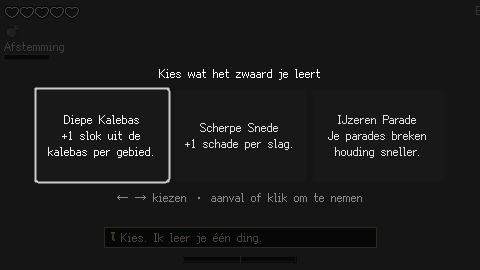
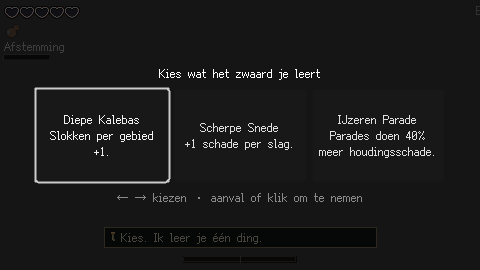
M4: upgrade descriptions read their numbers from run.tres
Descriptions use placeholders ({health}, {posture}, {pct}, {damage}, {sips}) filled from the
tuning file, so F1 changes show in the upgrade screen (en, nl, zh_CN). Checked in settings.

Claude-Session: https://claude.ai/code/session_01AfcAftnrJ5ZevfZvVojacj

Changed region(s): [[0.6562, 0.4741, 0.9062, 0.5926], [0.0938, 0.4741, 0.3125, 0.5926]]

diff --git a/game/scripts/Ui/UpgradeScreen.cs b/game/scripts/Ui/UpgradeScreen.cs
@@ -33,6 +33,19 @@ public partial class UpgradeScreen : CanvasLayer
         _ => "merciful_cut",
     };
 
+    /// <summary>Fills an upgrade's description with its numbers from run.tres, so F1 edits show.</summary>
+    public static string Describe(Upgrade u, string template)
+    {
+        var r = Core.Tunables.Run;
+        static string Pct(float factor) => Mathf.RoundToInt((factor - 1f) * 100f).ToString();
+        return template
+            .Replace("{health}", (u == Upgrade.MercifulCut ? r.MercifulCutHeal : r.VitalityHealth).ToString())
+            .Replace("{posture}", Mathf.RoundToInt(r.BroadStancePosture).ToString())
+            .Replace("{pct}", Pct(u == Upgrade.SteadyBreath ? r.SteadyBreathFactor : r.IronDeflectFactor))
+            .Replace("{damage}", r.KeenEdgeDamage.ToString())
+            .Replace("{sips}", r.DeepGourdSips.ToString());
+    }
+
     public override void _Ready()
     {
         Layer = 20;
@@ -57,7 +70,7 @@ public partial class UpgradeScreen : CanvasLayer
             var b = new Button
             {
                 AutoTranslateMode = Node.AutoTranslateModeEnum.Disabled,
-                Text = Tr($"upgrade.{k}.name") + "\n\n" + Tr($"upgrade.{k}.desc"),
+                Text = Tr($"upgrade.{k}.name") + "\n\n" + Describe(u, Tr($"upgrade.{k}.desc")),
                 AutowrapMode = TextServer.AutowrapMode.WordSmart,
                 CustomMinimumSize = new Vector2(132, 92),
                 Alignment = HorizontalAlignment.Center,

diff --git a/game/scripts/scenarios/SettingsScenario.cs b/game/scripts/scenarios/SettingsScenario.cs
@@ -26,6 +26,12 @@ public partial class SettingsScenario : Scenario
                 return;
             case 2:
                 Check(UserSettings.Locale == "en", $"started in {UserSettings.Locale}");
+                foreach (var u in System.Enum.GetValues<Upgrade>())
+                {
+                    var text = Ui.UpgradeScreen.Describe(u, Tr($"upgrade.{Ui.UpgradeScreen.Key(u)}.desc"));
+                    Check(!text.Contains('{'), $"unfilled upgrade text: {text}");
+                }
+                Check(Ui.UpgradeScreen.Describe(Upgrade.IronDeflect, Tr("upgrade.iron_deflect.desc")).Contains(Mathf.RoundToInt((Tunables.Run.IronDeflectFactor - 1) * 100) + "%"), "Iron Deflect does not show its tuned number");
                 _title.LanguageButton.EmitSignal(BaseButton.SignalName.Pressed);
                 Check(UserSettings.Locale == "nl" && Tr("ui.title.start") == "Beginnen", "the picker did not switch to Dutch");
                 Check(_title.LanguageButton.Text.Contains("Nederlands"), "the picker does not name Dutch");
